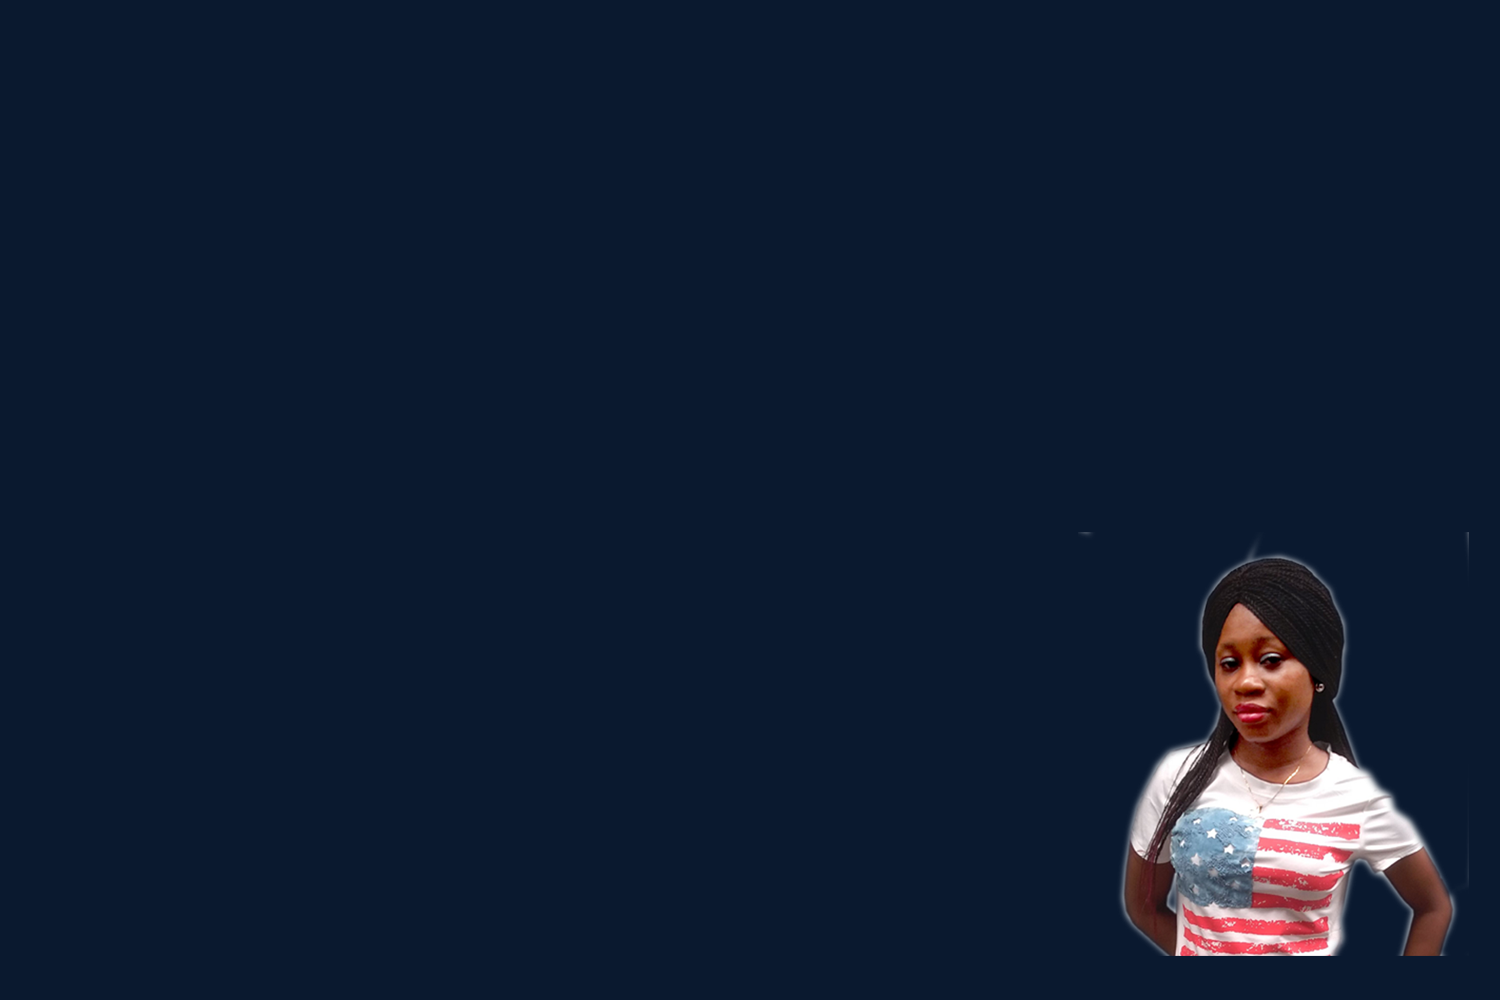
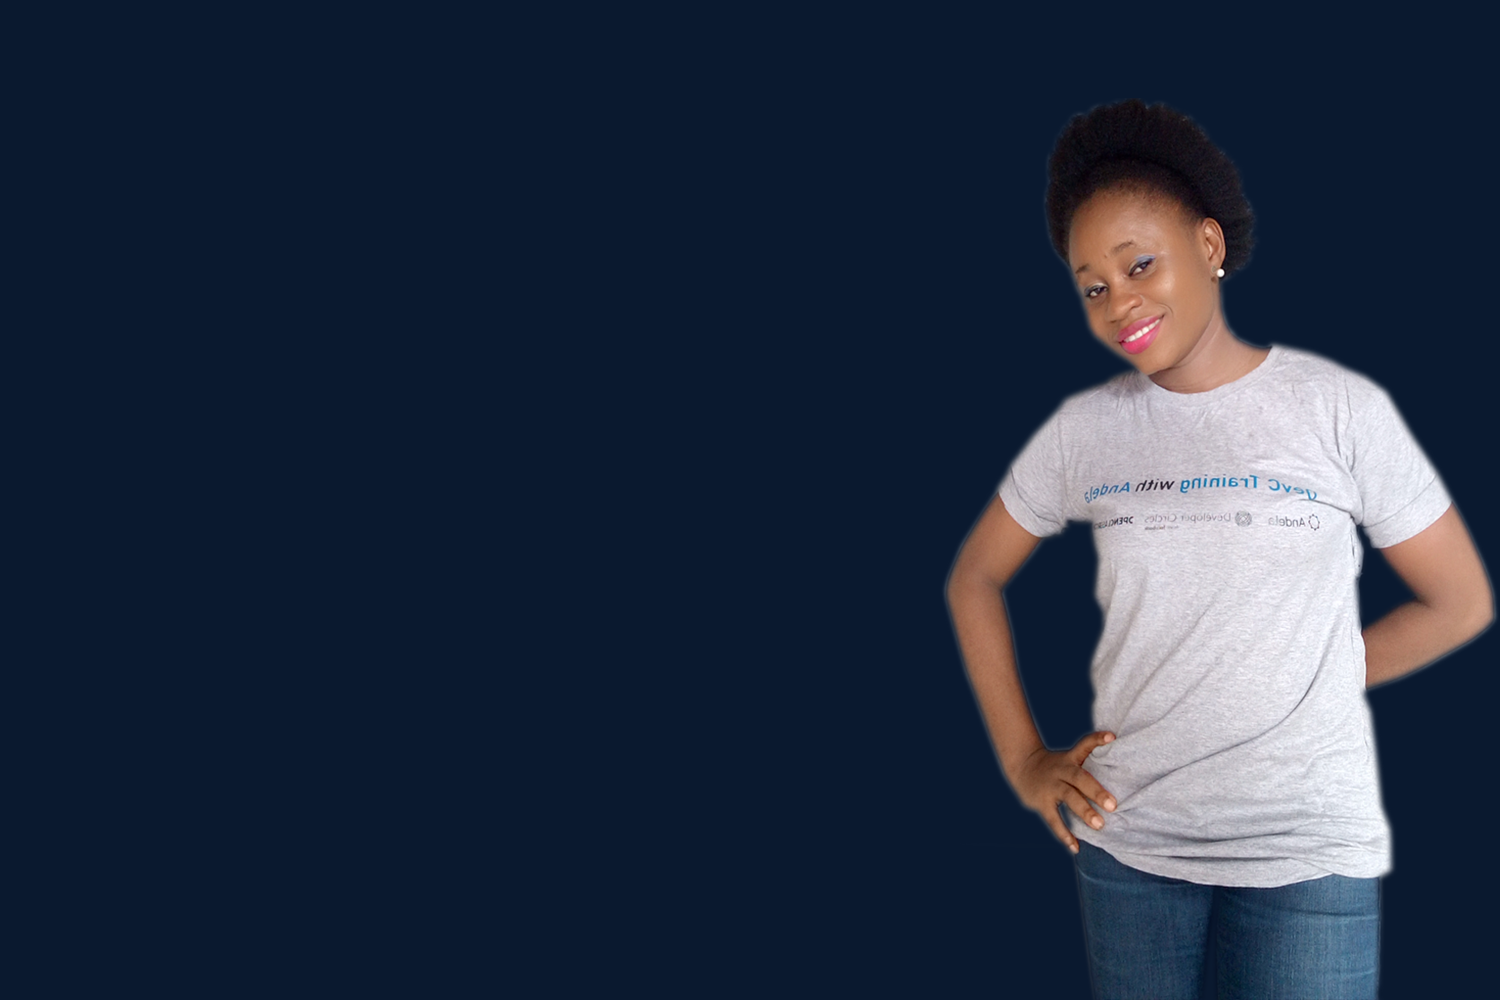
update the homepage background

Changed region(s): [[0.6133, 0.093, 1.0, 1.0]]

diff --git a/public/css/styles.css b/public/css/styles.css
@@ -39,7 +39,6 @@ main {
 .home-main {
   margin: 0 auto;
   margin-top: 100px;
-  margin-bottom: 30px;
 }
 .container {
   width: 90%;
@@ -112,12 +111,11 @@ header.lg-nav {
   height: 95%;
   background-image: url('../images/background.png');
   background-repeat: no-repeat;
-  background-position: center center;
+  background-position: center right;
   background-size: cover;
-  filter: blur(0px);
+  opacity: .5;
 }
 .showcase:hover::after {
-  filter: blur(10px);
   transition: all 2s;
 }
 .showcase:hover .showcase__content {
@@ -135,8 +133,8 @@ header.lg-nav {
   justify-content: center;
   align-content: center;
   width: 60%;
-  padding-bottom: 70px;
-  filter: blur(5px);
+  padding-top: 40px;
+  padding-bottom: 100px;
   transition: all 2s;
 }
 .showcase__content h1 {
@@ -434,7 +432,6 @@ footer .socials .fa {
   .home-main {
     margin: 0 auto;
     margin-top: 100px;
-    margin-bottom: 30px;
   }
   .showcase__content {
     width: 90%;
@@ -485,8 +482,8 @@ footer .socials .fa {
     font-size: 60px;
   }
   .showcase::after {
-    background-image: url(../images/background-sm.png);
-    filter: blur(10px);
+    background-image: url(../images/background-md.png);
+    opacity: .4;
   }
   .showcase:hover .showcase__content {
     filter: blur(0);
